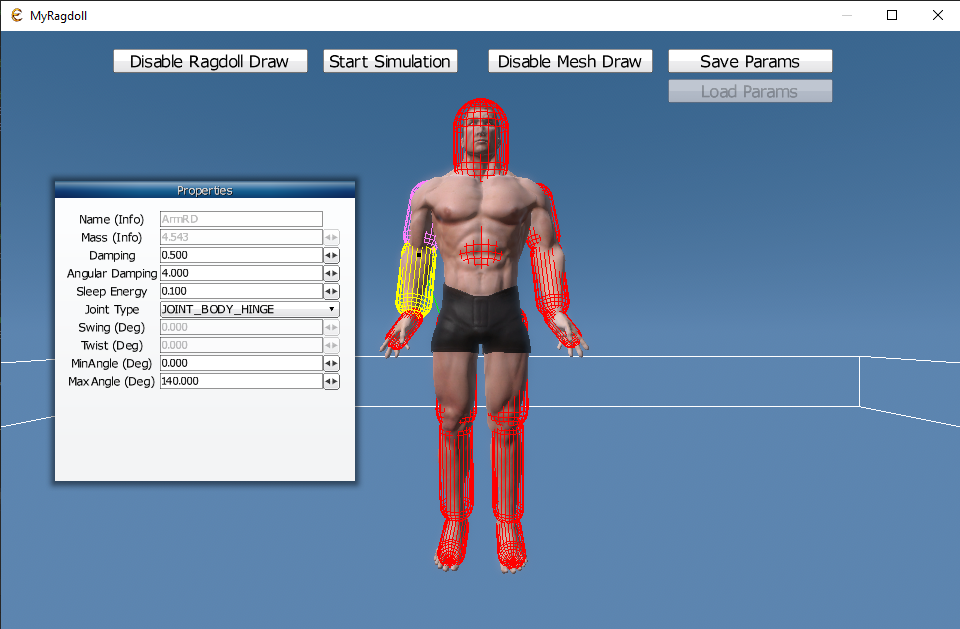
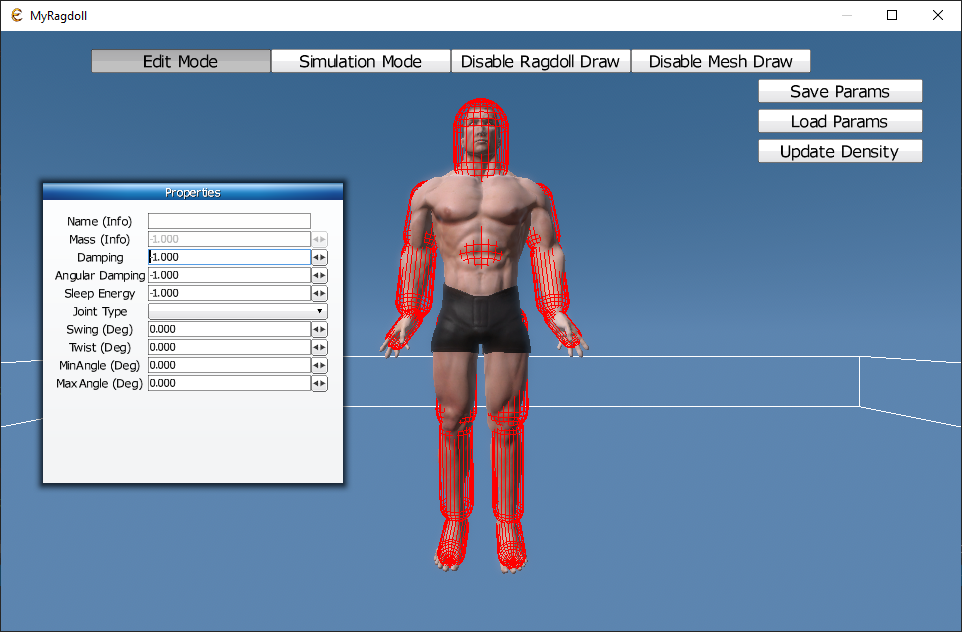
Update images and readme to new modes

diff --git a/README.md b/README.md
@@ -1,6 +1,5 @@
 ## General info
 Ragdoll edytor based on build in Esenthel Engine classes Ragdoll and Chr.
-![MainWindow](./images/mainWindow.png)
 ## Technologies
 * [Esenthel Engine](http://www.esenthel.com)
 * Microsoft Visual Studio
@@ -43,22 +42,23 @@ player.create(*ObjectPtr(UID(2919624831, 1261075521, 753053852, 3651670215)));
 ## Usage
 Version 0.0.1 alpha. For test purpose only!
 #### All modes:
-	ESC - Exit editor
-	Left CTRL - Hold to rotate camera with mouse. Hold right mouse button to move camera.
-	Mouse scroll - Zoom camera in and out. (Works also with LCTRL)
+* ESC - Exit editor
+* Left CTRL - Hold to rotate camera with mouse. Hold right mouse button to move camera.
+* Mouse scroll - Zoom camera in and out. (Works also with LCTRL)
+* Disable Ragdoll Draw: Do not draw ragdoll and all related things.
+* Disable mesh draw: Do not draw mesh.
 #### Simulation mode:
-	Right mouse button hold on ragdoll body: drag body. (Causes errors!)
-#### View mode:
+![SimulationMode](./images/simulationMode.png)
+	Start simulation to start, restart simulation.
+	If in simulation mode ragdoll break, go into edit mode save default parameters and load them.
+#### Edit mode:
+![MainWindow](./images/mainWindow.png)
 	Left Shift + Left mouse button click: Select ragdoll actor and display parameters in window.
 	(IMPORTAND! Change actor or click on viewport to update parameters and deselect active actor!)
 	Pink actor: Parent to selected actor to which joint is created.
 	Yellow actor: Selected actor.
 	Black dot: Joint start pos.
 	Green line: Joint.
-	
-* Disable Ragdoll Draw: Do not draw ragdoll and all related things.
-* Start Simulation: Start physics update.
-* Disable mesh draw: Do not draw mesh.
 * Save params: Save ragdoll params to ragdoll_params.txt
 * Load params: Load ragdoll params from ragdoll_params.txt and set it into current ragdoll. IMPORTAND! Deselect all actors to enable load button.
 ### Tips
